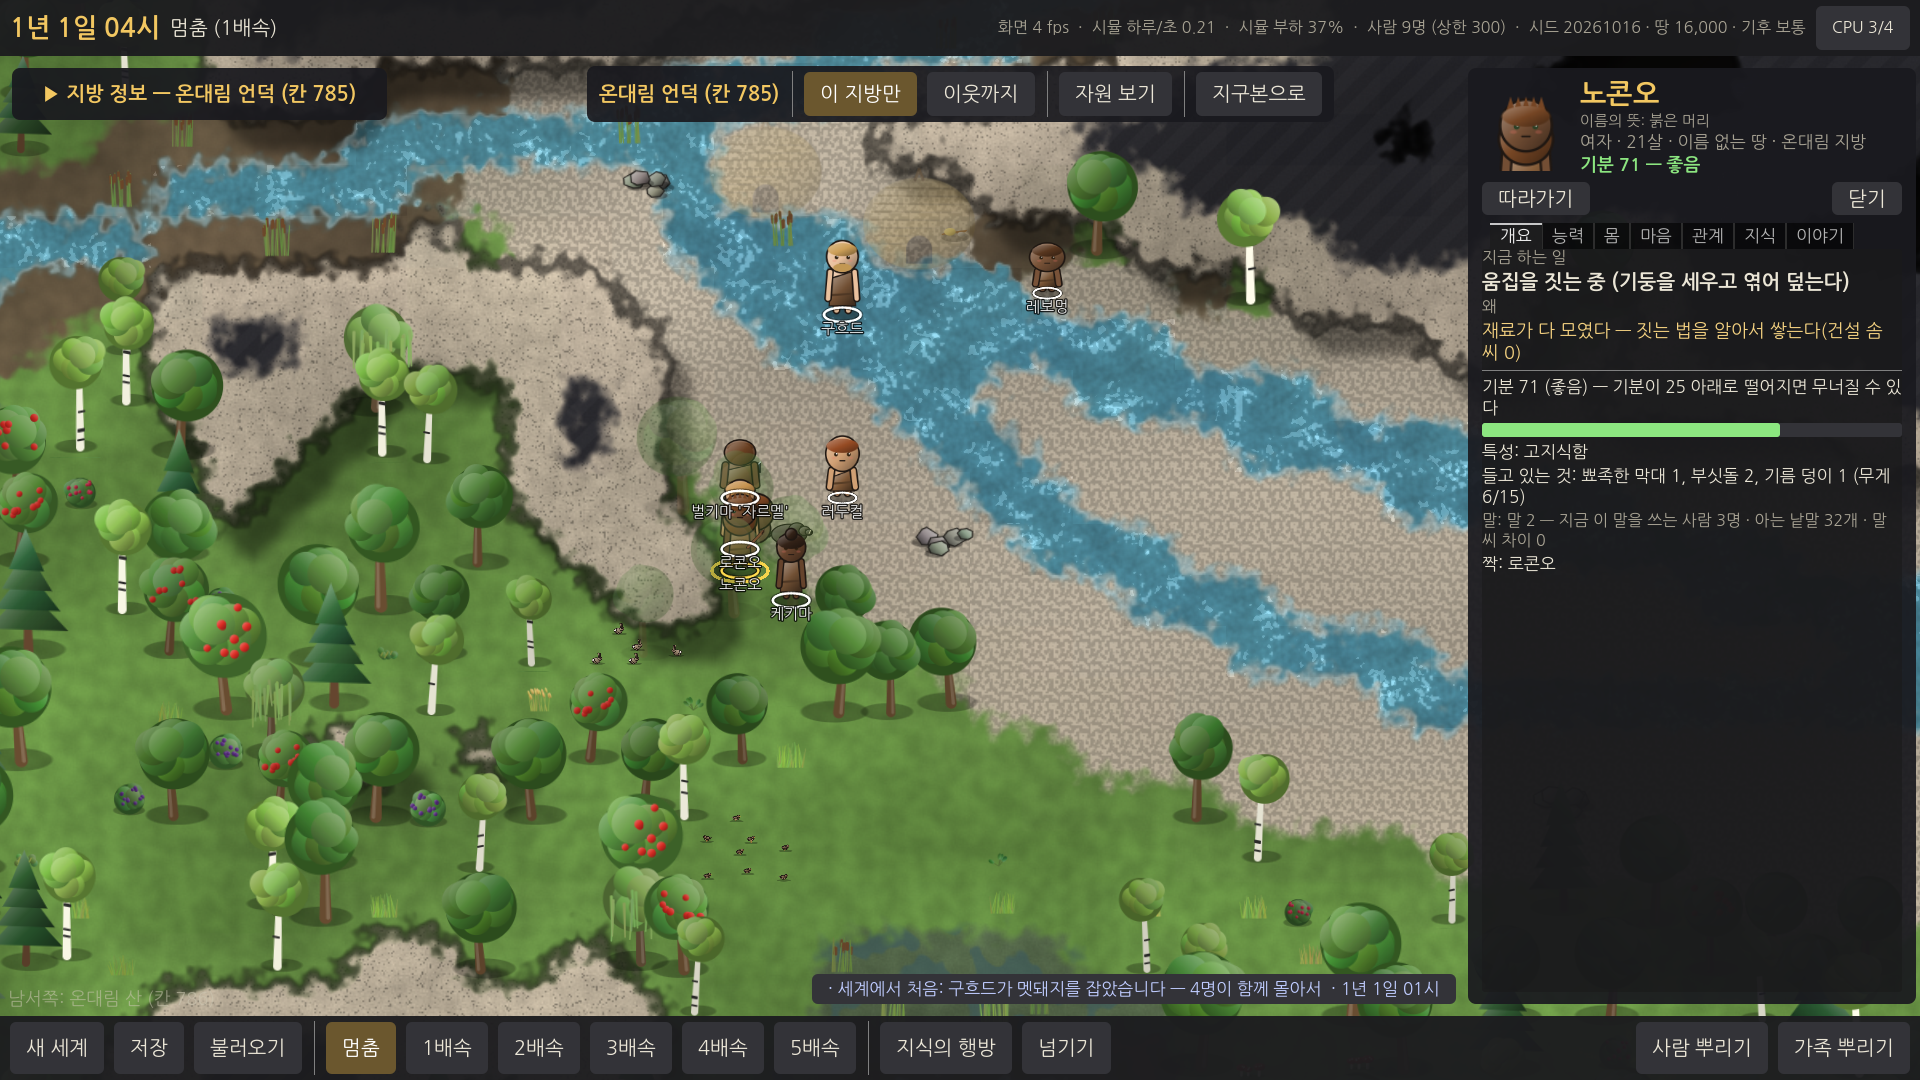
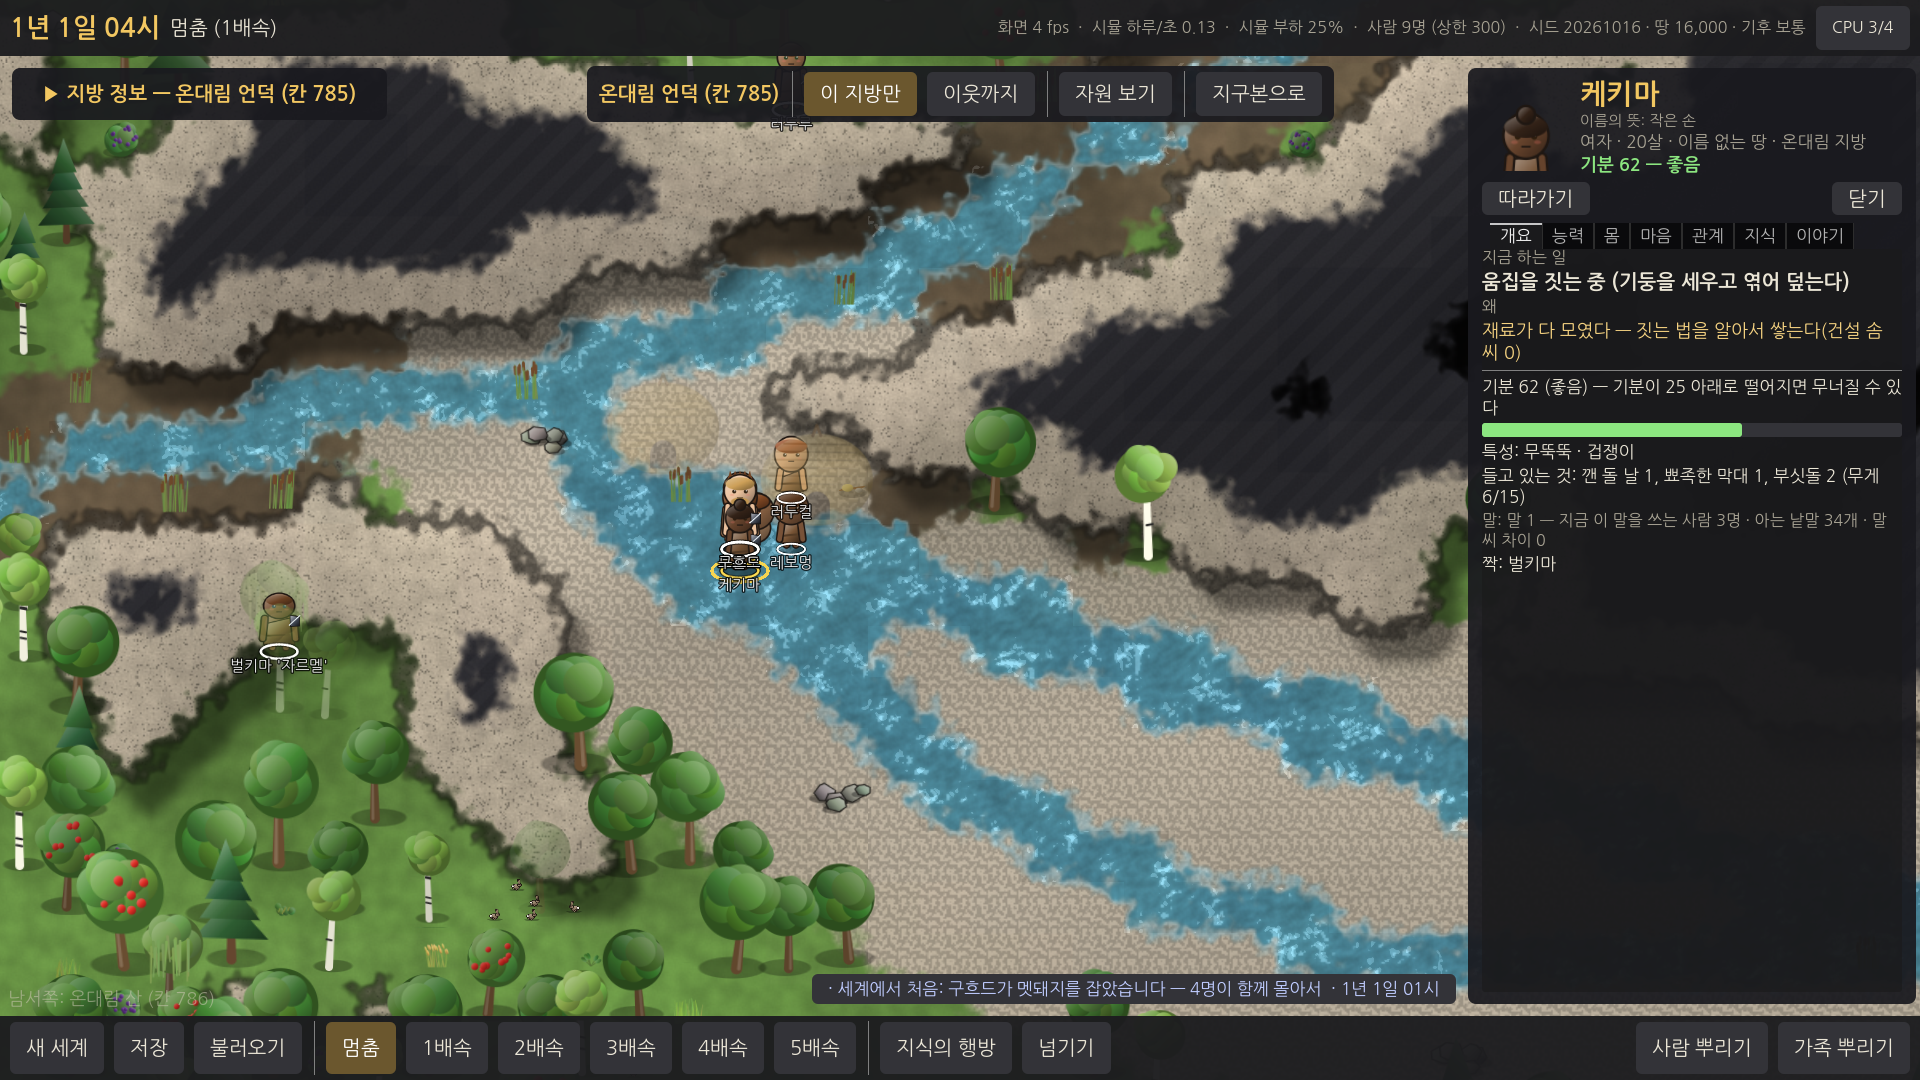
E6: 새 장면으로 스크린샷 다시
Claude-Session: https://claude.ai/code/session_01BqokhRkP8vn163fGV9vpDN

diff --git a/docs/reports/E6.md b/docs/reports/E6.md
@@ -5,8 +5,8 @@
 
 ## 해 볼 것
 1. zip 을 풀고 **`WTW.exe`** 를 실행합니다("PC 보호" 경고가 뜨면 **"추가 정보 → 실행"**). **[불러오기] → "움집을 짓는 마을"** → 1~2배속으로 사람들이 자리를 정하고 · 나무와 풀을 날라 · 쌓는 모습을, 3~4배속으로 하루 남짓 지나 **움집이 서는 것**을 봐 주세요. 짓는 자리(쌓인 나무 더미)나 움집을 누르면 **건물 창**(무엇 · 누가 · 언제 · 모자란 재료 · 품질 · 지금 누가 쓰나)이 뜹니다.
-2. **[불러오기] → "마지막 장인이 늙음"**(103년 뒤 마을) → 움집이 늘어선 마을, 돌무더기 무덤, 저장 구덩이, 돌 깨는 자리를 눌러 보세요. 무덤 창에는 **누가 묻혔고 누가 묻었는지**가 나옵니다.
-3. 같은 마을에서 사람을 눌러 카드의 **[몸]** 칸 → 든 물건의 **품질**(나쁨 · 보통 · 좋음 · 훌륭함)과, 운이 좋으면 **사연 있는 물건**(예: 큰 고양이를 잡은 뾰족한 막대 '로레흐' — 언제 · 누가 · 왜 이름이 붙었는지)이 보입니다. [이야기] 칸에는 "지었다 · 묻었다 · 물려받았다" 같은 줄이 붙어요.
+2. **[불러오기] → "마지막 장인이 늙음"**(161년 뒤 마을 — 사람 286명) → 움집이 늘어선 마을, 돌무더기 무덤, 저장 구덩이, 돌 깨는 자리를 눌러 보세요. 무덤 창에는 **누가 묻혔고 누가 묻었는지**가 나옵니다.
+3. 같은 마을에서 사람을 눌러 카드의 **[몸]** 칸 → 든 물건의 **품질**(나쁨 · 보통 · 좋음 · 훌륭함)과, 운이 좋으면 **사연 있는 물건**(예: 큰 고양이를 잡은 뾰족한 막대 '루레흐' — 언제 · 누가 · 왜 이름이 붙었는지)이 보입니다. [이야기] 칸에는 "지었다 · 묻었다 · 물려받았다" 같은 줄이 붙어요.
 4. **[불러오기] → "털옷을 아는 무리, 툰드라 가장자리"** → 해 질 녘에 사람들이 **불을 챙기고 그 곁에서 자는지** 지켜봐 주세요(이번 단계에서 "자기 전에 불을 피워 두는 버릇"이 생겼지만, 아직 자주는 아닙니다 — 아래 "알려진 문제").
 5. (덤) [넘기기] 창의 **"처음 집" · "처음 무덤"** 목표로 넘겨 보고, 끝 요약에 **건물 줄**이 나오는지 봐 주세요.
 
@@ -155,14 +155,14 @@
 - 털가죽 옷(따뜻한 땅) 84.5년 → 39년 · 8/20 → 5/20 처럼 ±20% 넘게 바뀐 발견은 시드 몇 개에서만 나와 흔들림이 크다.
 
 ## 스크린샷 (`docs/reports/E6/`, 가상 화면 — 그래픽 카드 없음)
-- `build.png` — "움집을 짓는 마을" 첫날 새벽: 다섯 사람이 쌓인 재료 곁에서 움집을 짓는 중, 카드 "움집을 짓는 중(기둥을 세우고 엮어 덮는다) — 재료가 다 모였다, 짓는 법을 알아서 쌓는다".
-- `site.png` — 같은 장면 10시: 짓는 중인 움집과 건물 창(누가 · 언제 · 34% · 모자란 것 기둥 8/8 · 지붕 16/16 · 노콘오의 집안이 자는 곳).
-- `village.png` — "마지막 장인이 늙음"(103년 뒤): 움집이 늘어선 마을 · 밭 · 모아 둔 자리.
+- `build.png` — "움집을 짓는 마을" 첫날: 사람들이 쌓인 재료 곁에서 움집을 짓는 중, 카드 "움집을 짓는 중(기둥을 세우고 엮어 덮는다) — 재료가 다 모였다, 짓는 법을 알아서 쌓는다".
+- `site.png` — 같은 장면 9시: 짓는 중인 움집과 건물 창(누가 여섯 · 언제 · 42% · 재료 기둥 8/8 · 지붕 16/16 다 모임 · 노콘오의 집안이 자는 곳).
+- `village.png` — "마지막 장인이 늙음"(161년 뒤, 칸 42265): 움집이 늘어선 마을 · 밭 · 시렁 · 돌무더기 무덤.
 - `hut.png` — 같은 마을의 움집과 건물 창.
-- `pit.png` — 저장 구덩이와 건물 창(지키는 정도 · 모아 둔 것).
-- `grave.png` — 돌무더기 무덤 창: 묻힌 사람 · 묻은 사람 · "가까운 이들이 돌을 쌓아 덮었다 — 무리마다 해 오던 대로".
+- `pit.png` — 저장 구덩이 건물 창(누가 · 78년에 짓고 158년에 고침 · 품질 보통 · 상태 58%).
+- `grave.png` — 돌무더기 무덤 창: 묻힌 사람(나드검, 68살) · 묻은 사람 셋 · "가까운 이들이 돌을 쌓아 덮었다 — 무리마다 해 오던 대로" · 곁을 지나면 떠올린다.
 - `bench.png` — 돌 깨는 자리(작업대)와 건물 창.
-- `named.png` — 사람 카드 [몸]: 든 것의 품질(나쁨 — 빨리 닳는다)과 **사연 있는 물건** "뾰족한 막대 '로레흐'(큰 고양이를 잡은 뾰족한 막대) — 83년 34일 딘릭타가 이것으로 큰 고양이를 잡아 '로레흐'라 불리게 되었다".
+- `named.png` — 사람 카드 [몸]: 든 것의 품질(쪼갠 장작 — 좋음)과 **사연 있는 물건** "뾰족한 막대 '루레흐'(큰 고양이를 잡은 뾰족한 막대, 품질 좋음) — 157년 11일 잘딕타가 이것으로 큰 고양이를 잡아 '루레흐'라 불리게 되었다".
 
 ## 기획과 다르게 한 것 / 이유
 - **곳간은 만들지 않았다** — 저장 구덩이 · 시렁만. 곳간(지붕 있는 큰 창고)은 움집과 재료가 같고 "누구의 것"(땅 주인 · 우두머리, E7)이 붙어야 뜻이 있어 넘긴다.
